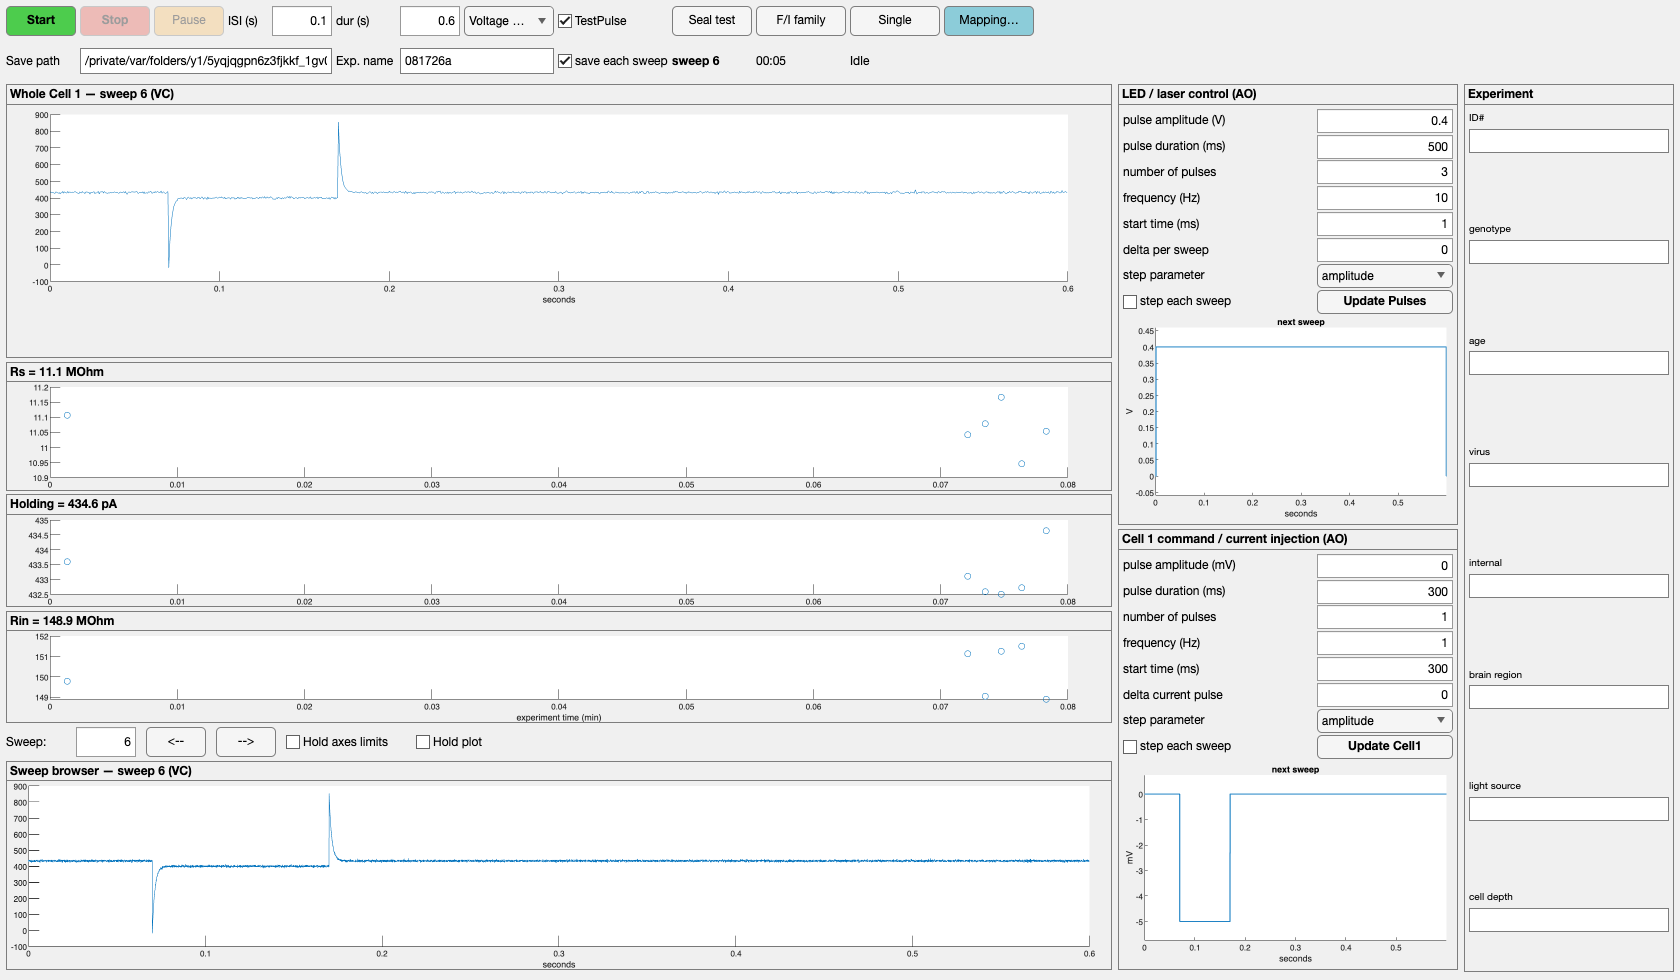
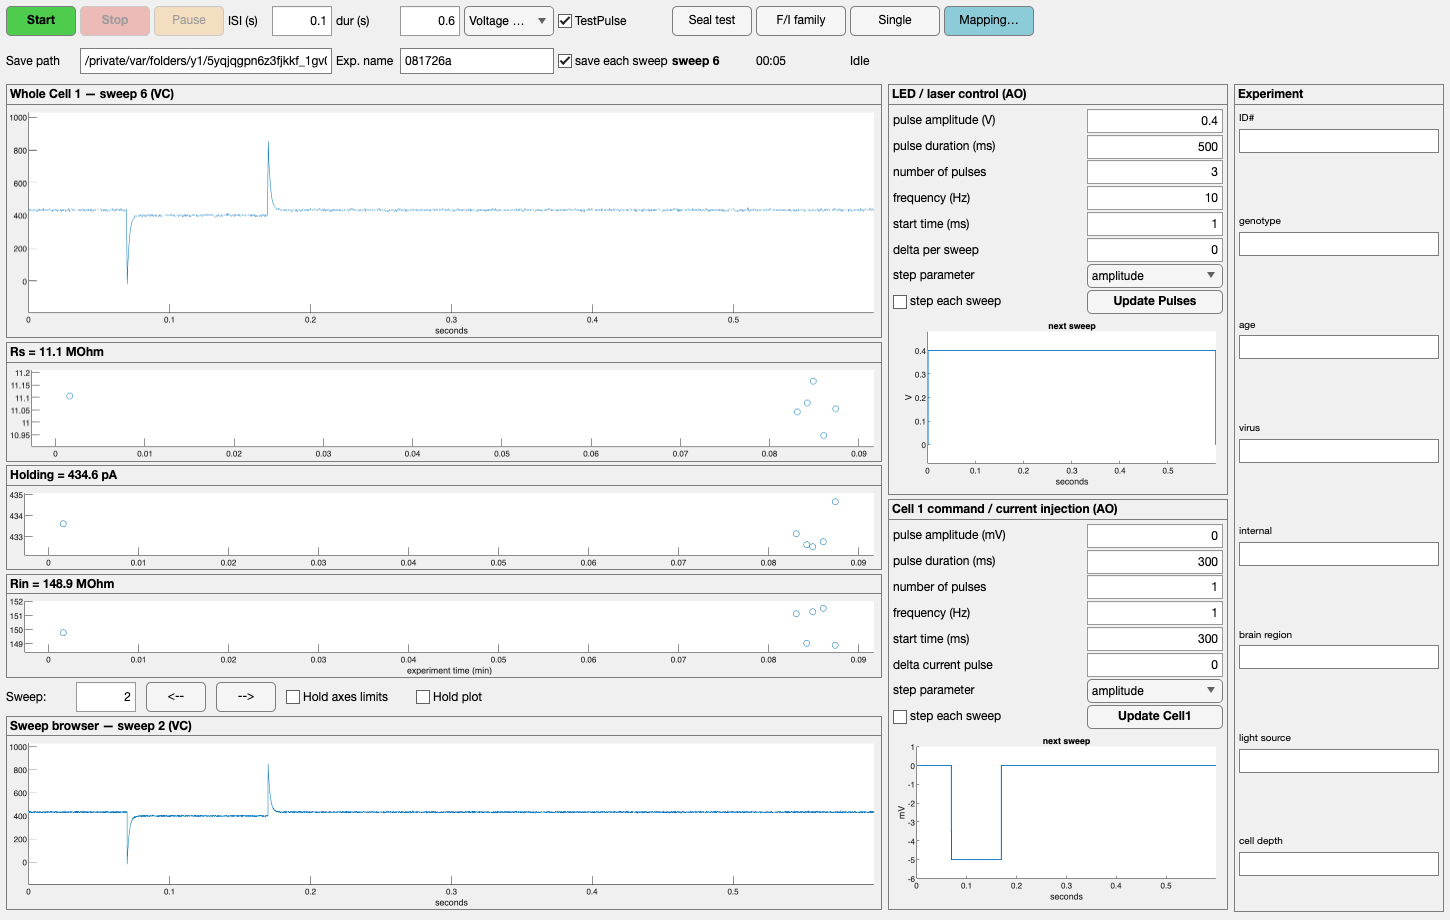
GUI fixes from rig feedback: plot width, y limits, titles, browser
1. Left-column plots took a fraction of their allocated width. The axes were
   nested in a uipanel positioned [0 0 1 1], which does NOT adopt its parent's
   size - it keeps the default ~260 px, measured identical on every plot
   regardless of column. They now sit in a 1x1 uigridlayout, which sizes its
   child to the panel.

2. Stimulus preview limits could coincide with the trace, putting the resting
   baseline on the axis edge where the line is drawn half outside the box and
   reads as missing. sem.gui.paddedLimits always pads strictly outside the
   data (and gives a flat or all-zero trace a real span instead of a
   degenerate one). Applied to both previews and, for the same reason, to the
   live trace and the sweep browser. Trend markers pad in x too, or the first
   and last points are clipped by the box.

3. The trend plots rode up into their panel titles, which is where the Rs /
   holding / Rin numbers live. The grid nesting in (1) reserves room for the
   tick labels, so the plot no longer reaches the title.

4. The sweep browser jumped to each new sweep as it arrived, yanking away the
   sweep being examined. It is a review tool and now moves only when the
   operator navigates; the live trace above is what tracks acquisition. This
   matches the legacy GUI, where SetSweepNumber was independent of the
   acquisition loop.

212 tests pass.

diff --git a/src/+sem/+gui/AcqWindow.m b/src/+sem/+gui/AcqWindow.m
@@ -520,10 +520,11 @@ classdef AcqWindow < handle
             if isempty(s)
                 return
             end
+            % The browser is a review tool, independent of acquisition: it
+            % moves only when the operator navigates, so a sweep being examined
+            % is not yanked away by the next one arriving. The live trace above
+            % is what tracks acquisition.
             obj.Sweeps{end+1} = s;
-            % Follow the newest sweep in the browser unless the operator is
-            % holding a plot to compare against it.
-            follow = ~obj.HoldPlotCheck.Value;
 
             fs = s.sampleRateHz;
             t = (0:numel(s.ai) - 1)' / fs;
@@ -556,9 +557,6 @@ classdef AcqWindow < handle
                     obj.LedPanel.setSpec(obj.Runner.config.led);
                 end
                 obj.refreshPreviews();
-            end
-            if follow
-                obj.showSweep(numel(obj.Sweeps));
             end
             drawnow limitrate;
         end
@@ -618,6 +616,8 @@ classdef AcqWindow < handle
             else
                 hold(obj.BrowseAxes, 'off');
                 obj.BrowseLineReset(t, s.ai);
+                ylim(obj.BrowseAxes, sem.gui.paddedLimits(s.ai));
+                xlim(obj.BrowseAxes, [t(1), t(end)]);
             end
             obj.BrowsePanel.Title = sprintf('Sweep browser — sweep %d (%s)', idx, s.mode);
         end
@@ -681,16 +681,20 @@ end
 % --- local helpers ---------------------------------------------------------
 
 function [p, ax] = axesPanel(parent, row, titleText)
-%axesPanel Axes nested in a titled panel.
-%   The nesting is required: a uiaxes placed directly into a uigridlayout row
-%   escapes the row and overdraws its neighbours. The title doubles as the
-%   numeric readout for the trend strips.
+%axesPanel Axes filling a titled panel.
+%   The axes goes inside a 1x1 uigridlayout rather than straight into the
+%   panel: a nested uipanel positioned [0 0 1 1] does NOT take its parent's
+%   size (it keeps the default ~260 px), which left every plot a fraction of
+%   its allocated width. A grid sizes its child to the panel and reserves room
+%   for the tick labels, so the plot no longer rides up into the panel title
+%   either. The title doubles as the numeric readout for the trend strips.
 p = uipanel(parent, 'Title', titleText, 'FontWeight', 'bold');
 p.Layout.Row = row;
-inner = uipanel(p, 'BorderType', 'none');
-inner.Units = 'normalized';
-inner.Position = [0 0 1 1];
-ax = uiaxes(inner, 'Units', 'normalized', 'Position', [0 0 1 1]);
+g = uigridlayout(p, [1 1]);
+g.Padding = [2 2 2 2];
+g.RowHeight = {'1x'};
+g.ColumnWidth = {'1x'};
+ax = uiaxes(g);
 ax.FontSize = 8;
 end
 
@@ -706,6 +710,19 @@ else
 end
 if holdLimits
     xlim(ax, xl); ylim(ax, yl);
+else
+    % Never let the baseline sit on the axis edge, where it reads as missing.
+    ylim(ax, sem.gui.paddedLimits(y));
+    if strcmp(marker, '-')
+        % Continuous trace: the sweep spans exactly its own duration.
+        if numel(x) > 1 && x(end) > x(1)
+            xlim(ax, [x(1), x(end)]);
+        end
+    else
+        % Trend markers: pad x too, or the first and last points are drawn
+        % half outside the plot box.
+        xlim(ax, sem.gui.paddedLimits(x, 0.05));
+    end
 end
 end
 

diff --git a/tests/test_acq_window.m b/tests/test_acq_window.m
@@ -81,21 +81,48 @@ classdef test_acq_window < matlab.unittest.TestCase
             tc.verifyTrue(any(contains(titles, 'sweep 1')));
         end
 
-        function browser_follows_the_newest_sweep_and_navigates(tc)
+        function browser_is_independent_of_acquisition(tc)
+            % The browser is a review tool: acquiring must not yank the sweep
+            % being examined out from under the operator. The live trace above
+            % is what tracks acquisition.
             tc.Win = tc.build();
             for k = 1:3
                 tc.Win.Runner.acquireOne();
             end
-            tc.verifyTrue(any(contains(tc.panelTitles(), 'Sweep browser — sweep 3')));
+            tc.verifyFalse(any(contains(tc.panelTitles(), 'Sweep browser — sweep')), ...
+                'the browser must not jump to sweeps as they arrive');
 
-            tc.Win.browseStep(-1);
-            tc.verifyTrue(any(contains(tc.panelTitles(), 'Sweep browser — sweep 2')));
             tc.Win.browseStep(+1);
-            tc.verifyTrue(any(contains(tc.panelTitles(), 'Sweep browser — sweep 3')));
+            tc.verifyTrue(any(contains(tc.panelTitles(), 'Sweep browser — sweep 1')));
+            tc.Win.browseStep(+1);
+            tc.verifyTrue(any(contains(tc.panelTitles(), 'Sweep browser — sweep 2')));
+            tc.Win.browseStep(-1);
+            tc.verifyTrue(any(contains(tc.panelTitles(), 'Sweep browser — sweep 1')));
+
+            % Acquiring again leaves the browser where the operator put it.
+            tc.Win.Runner.acquireOne();
+            tc.verifyTrue(any(contains(tc.panelTitles(), 'Sweep browser — sweep 1')));
 
             % Past the ends it holds, rather than erroring (legacy behaviour).
-            tc.Win.browseStep(+5);
-            tc.verifyTrue(any(contains(tc.panelTitles(), 'Sweep browser — sweep 3')));
+            tc.Win.browseStep(-5);
+            tc.verifyTrue(any(contains(tc.panelTitles(), 'Sweep browser — sweep 1')));
+        end
+
+        function preview_limits_never_sit_on_the_trace(tc)
+            % A stimulus rests at 0 for most of the sweep; limits taken from
+            % min/max would put that baseline on the axis edge, hiding it.
+            lims = sem.gui.StimPanel.paddedLimits([0 0 0.4 0.4 0]');
+            tc.verifyLessThan(lims(1), 0);
+            tc.verifyGreaterThan(lims(2), 0.4);
+
+            % A negative-going command (the test pulse) is padded on both sides.
+            lims = sem.gui.StimPanel.paddedLimits([0 0 -5 -5 0]');
+            tc.verifyLessThan(lims(1), -5);
+            tc.verifyGreaterThan(lims(2), 0);
+
+            % An all-zero trace still gets a real span, not a degenerate one.
+            lims = sem.gui.StimPanel.paddedLimits(zeros(10, 1));
+            tc.verifyGreaterThan(lims(2), lims(1));
         end
 
         function panel_parameters_reach_the_composed_waveform(tc)

diff --git a/src/+sem/+gui/StimPanel.m b/src/+sem/+gui/StimPanel.m
@@ -114,12 +114,12 @@ classdef StimPanel < handle
             b.FontWeight = 'bold';
 
             % --- preview --------------------------------------------------
-            % The axes is nested in a panel with a normalized position: a
-            % uiaxes placed straight into a uigridlayout row escapes the row.
-            axHost = uipanel(outer, 'BorderType', 'none');
+            % The axes lives in its own 1x1 grid so it takes the full width it
+            % is given and keeps room for its tick labels.
+            axHost = uigridlayout(outer, [1 1]);
             axHost.Layout.Row = 2;
-            obj.PreviewAxes = uiaxes(axHost, 'Units', 'normalized', ...
-                'Position', [0 0 1 1]);
+            axHost.Padding = [2 2 2 2];
+            obj.PreviewAxes = uiaxes(axHost);
             obj.PreviewAxes.FontSize = 8;
             xlabel(obj.PreviewAxes, 'seconds');
             ylabel(obj.PreviewAxes, obj.AmpUnit);
@@ -187,8 +187,7 @@ classdef StimPanel < handle
             if ~isempty(t)
                 xlim(obj.PreviewAxes, [t(1), t(end)]);
             end
-            pad = max(abs(wave)) * 0.15 + eps;
-            ylim(obj.PreviewAxes, [min(wave) - pad, max(wave) + pad]);
+            ylim(obj.PreviewAxes, sem.gui.StimPanel.paddedLimits(wave));
         end
 
         function pressUpdate(obj)
@@ -208,6 +207,13 @@ classdef StimPanel < handle
 
         function setStatus(obj, txt)
             obj.StatusLabel.Text = char(txt);
+        end
+    end
+
+    methods (Static)
+        function lims = paddedLimits(y)
+            %paddedLimits Y limits that never coincide with the data.
+            lims = sem.gui.paddedLimits(y);
         end
     end
 

diff --git a/src/+sem/+gui/paddedLimits.m b/src/+sem/+gui/paddedLimits.m
@@ -1,0 +1,35 @@
+function lims = paddedLimits(y, fraction)
+%paddedLimits Y limits that never coincide with the data.
+%   lims = sem.gui.paddedLimits(y)
+%   lims = sem.gui.paddedLimits(y, fraction)
+%
+%   Traces in this GUI rest at a baseline for most of the sweep — 0 for a
+%   stimulus, the holding current for a recording. Limits taken straight from
+%   min/max put that baseline exactly on the axis edge, where the line is
+%   drawn half outside the plot box and reads as missing. This always pads
+%   strictly outside the data so both the baseline and the peak stay visible.
+%
+%   A flat trace (including all zeros) gets a real span rather than a
+%   degenerate one, which MATLAB would otherwise reject or render oddly.
+%
+%   fraction defaults to 0.2 of the data range.
+
+if nargin < 2 || isempty(fraction)
+    fraction = 0.2;
+end
+
+y = y(isfinite(y));
+if isempty(y)
+    lims = [-1, 1];
+    return
+end
+
+lo = min(y);
+hi = max(y);
+if hi > lo
+    pad = fraction * (hi - lo);
+else
+    pad = max(abs(hi) * 0.5, 0.5);   % flat trace, including all zeros
+end
+lims = [lo - pad, hi + pad];
+end
